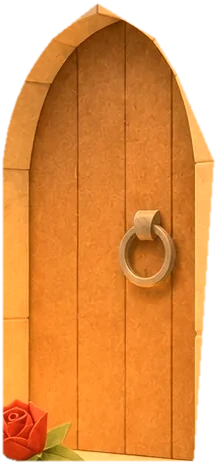
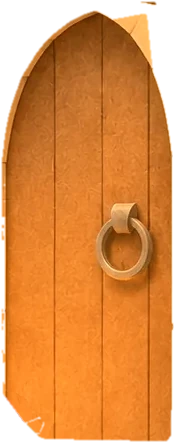
Puerta: solo gira la madera, sin piedra ni rosa copiadas
- El hueco se calcula comparando la lámina cerrada con la abierta, así la hoja
  que gira es solo madera: sin franja de piedra, sin copia de la rosa y sin el
  trozo de puerta que se quedaba fijo bajo el farol.
- La rosa del escalón y el canto de piedra del arco son una capa fija delante.
- Al terminar de abrirse, la hoja animada desaparece.

Claude-Session: https://claude.ai/code/session_01U2YmjohacyumAbuxLH3kyg

diff --git a/web/cuentos/raton-rosa/cuento.css b/web/cuentos/raton-rosa/cuento.css
@@ -116,11 +116,11 @@ html.js .texto{opacity:0}
 .cuadro--casa{perspective:900px;perspective-origin:74% 62%}
 /* El hueco recorta el giro: la madera nunca se sale del arco. */
 .hueco-puerta{position:absolute;inset:0;z-index:3;pointer-events:none;perspective:700px;perspective-origin:74% 64%;
-  clip-path:polygon(72.79% 50.66%,68.23% 52.63%,66.95% 53.53%,65.14% 55.20%,64.29% 56.28%,63.34% 58.01%,62.81% 59.81%,62.81% 77.51%,63.23% 77.75%,64.19% 77.93%,82.89% 77.93%,83.10% 77.27%,85.12% 59.99%,81.51% 55.20%,78.96% 52.75%)}
-.hoja-puerta,.cuadro>.hoja-cerrada{position:absolute;inset:auto;left:62.487%;top:50.419%;width:23.061%;height:27.751%;transform-origin:100% 50%;z-index:3}
+  clip-path:polygon(81.30% 50.96%,81.51% 51.14%,83.10% 59.87%,83.21% 70.39%,83.00% 76.85%,82.57% 77.15%,69.29% 76.97%,67.48% 76.02%,65.25% 74.34%,65.14% 60.47%,65.99% 57.48%,67.27% 55.38%,68.86% 53.95%,69.82% 53.29%,71.09% 52.63%,73.01% 51.91%,74.92% 51.50%,80.13% 50.96%)}
+.hoja-puerta,.cuadro>.hoja-cerrada{position:absolute;inset:auto;left:64.931%;top:50.837%;width:18.597%;height:26.495%;transform-origin:100% 50%;z-index:3}
 .hoja-puerta{will-change:transform}
-/* Piedra del marco y rosa del escalón: fijas, por delante de la puerta */
-.cuadro>.marco-puerta{inset:auto;left:59.086%;top:49.821%;width:27.63%;height:29.007%;z-index:4}
+/* La rosa del escalón y el canto de piedra del arco: fijos, por delante de la puerta */
+.cuadro>.marco-puerta{inset:auto;left:59.405%;top:50.837%;width:24.23%;height:27.99%;z-index:4}
 /* La luna baja hasta esconderse tras las colinas */
 .cielo{position:absolute;inset:0;z-index:1;pointer-events:none;clip-path:polygon(0% 0%,50% 0%,49.73% 49.46%,49.31% 49.46%,48.88% 49.76%,48.46% 61.66%,48.03% 61.66%,47.61% 61.66%,47.18% 61.66%,46.76% 61.66%,46.33% 61.66%,45.91% 61.78%,45.48% 61.78%,45.06% 61.78%,44.63% 61.78%,44.21% 61.90%,43.78% 61.90%,43.36% 61.90%,42.93% 61.90%,42.51% 62.02%,42.08% 62.02%,41.66% 62.02%,41.23% 62.08%,40.81% 62.08%,40.38% 62.14%,39.96% 62.20%,39.53% 62.26%,39.11% 62.32%,38.68% 62.32%,38.26% 62.38%,37.83% 62.50%,37.41% 62.50%,36.98% 62.50%,36.56% 62.56%,36.13% 62.62%,35.71% 62.74%,35.28% 62.74%,34.86% 62.80%,34.43% 62.86%,34.01% 62.98%,33.58% 63.04%,33.16% 63.04%,32.73% 63.10%,32.31% 63.16%,31.88% 63.28%,31.46% 63.34%,31.03% 63.40%,30.61% 63.46%,30.18% 63.58%,29.76% 63.58%,29.33% 63.64%,28.91% 63.76%,28.48% 63.82%,28.06% 63.94%,27.63% 64.00%,27.21% 64.06%,26.78% 64.11%,26.35% 64.17%,25.93% 64.29%,25.50% 64.35%,25.08% 64.59%,24.65% 64.59%,24.23% 64.71%,23.80% 64.77%,23.38% 64.83%,22.95% 65.01%,22.53% 65.07%,22.10% 65.13%,21.68% 63.10%,21.25% 60.71%,20.83% 59.87%,20.40% 59.27%,19.98% 58.43%,19.55% 57.72%,19.13% 57.12%,18.70% 56.28%,18.28% 55.74%,17.85% 55.62%,17.43% 55.62%,17.00% 55.62%,16.58% 56.22%,16.15% 56.88%,15.73% 57.48%,15.30% 58.13%,14.88% 58.67%,14.45% 59.33%,14.03% 60.05%,13.60% 58.01%,13.18% 57.36%,12.75% 56.52%,12.33% 55.92%,11.90% 55.02%,11.48% 54.25%,11.05% 53.59%,10.63% 52.87%,10.20% 52.15%,9.78% 51.38%,9.35% 50.66%,8.93% 50.54%,8.50% 50.54%,8.08% 50.54%,7.65% 51.08%,7.23% 51.67%,6.80% 52.27%,6.38% 52.93%,5.95% 53.59%,5.53% 54.25%,5.10% 54.43%,4.68% 53.95%,4.25% 53.47%,3.83% 53.29%,3.40% 53.29%,2.98% 53.29%,2.55% 53.53%,2.13% 53.89%,1.70% 54.19%,1.28% 54.55%,0.85% 54.96%,0.43% 55.20%,0.00% 55.68%)}
 .luna{position:absolute;left:7.864%;top:4.127%;width:19.447%;height:12.261%;will-change:transform}
